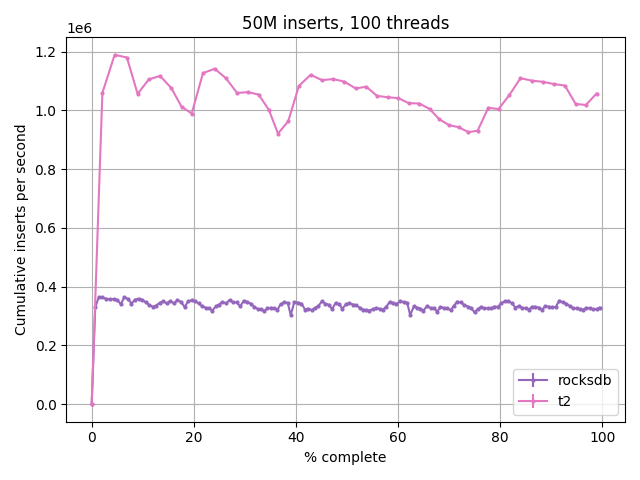
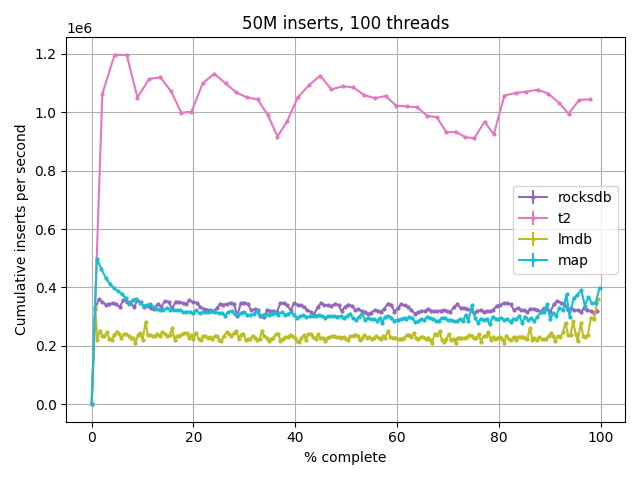
Update benchmarks: add varsize and some lmdb runs.

diff --git a/README.md b/README.md
@@ -39,9 +39,9 @@ Benchmarks
 ----------
 
 The plots below are made by `./benchmarks` script, which runs a "typical" set of
-workloads against t2 and rocksdb (additionally C++ `std::map` is used in some
+workloads against t2, lmdb and rocksdb (additionally C++ `std::map` is used in some
 cases). Warning: the script takes a lot of time (a few hours) to complete, in
-part because it, by default, repeats each experiment 5 times (see `nr` variable).
+part because it, by default, it repeats each experiment 5 times (see `nr` variable).
 
 Configuration:
 
@@ -70,12 +70,16 @@ Delete the records:
 
 ![delete 50M records](https://github.com/nikitadanilov/t2/blob/master/doc/images/deletes-50M.png?raw=true)
 
-Finally, benchmark concurrent insertion of random and sequential keys in a freshly re-initialised key-value store:
+Insertion of random and sequential keys in a freshly re-initialised key-value store:
 
 ![insert random keys](https://github.com/nikitadanilov/t2/blob/master/doc/images/insert-rnd.png?raw=true)
 
 
 ![insert sequential keys](https://github.com/nikitadanilov/t2/blob/master/doc/images/insert-seq.png?raw=true)
+
+Dependence of insertion rate on record size:
+
+![insert sequential keys](https://github.com/nikitadanilov/t2/blob/master/doc/images/insert-varsize.png?raw=true)
 
 Transportability
 ----------------
